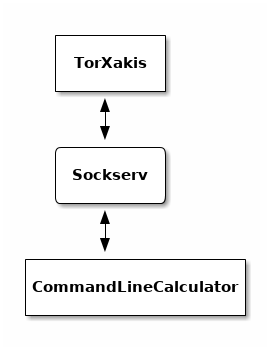
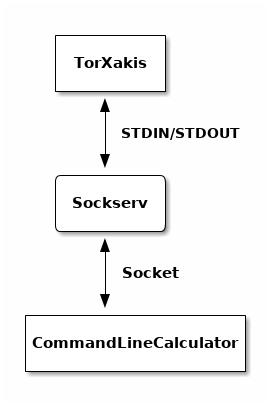
Nieuwe paragraaf tex

diff --git a/assignment2/assignment2.tex b/assignment2/assignment2.tex
@@ -173,9 +173,19 @@ We wanted to model the use cases we made in the previous assignment. Here they a
 %% connections and interfaces; explain your choices. Try to reuse the
 %% test-execution automation environment as much as possible.
 
-Our main application, Commandlinecalculator is a command line tool
+Out test environment consists or our main Tool,
+Commandlinecalculator.jar, Torxakis and a proxy.
 
-\includegraphics[width=8cm]{overview.png}
+\includegraphics[width=6cm]{overview.png}
+
+Our main application, Commandlinecalculator is a command line tool. It
+reads from stdin en outputs to stdout and stderr
+
+SockServ.jar is a proxy between Torxakis and the
+CommandLineCalculator. It opens a socket and passes messages through
+to the Commandlinecalculator. In addition it simplifies the output,
+showing only the final result. This simplified allows us to use a less
+verbose model in torxakis
 
 \subsection{MBT Testing}
 %% Use TorXakis to generate tests, and execute them on your SUT.}
